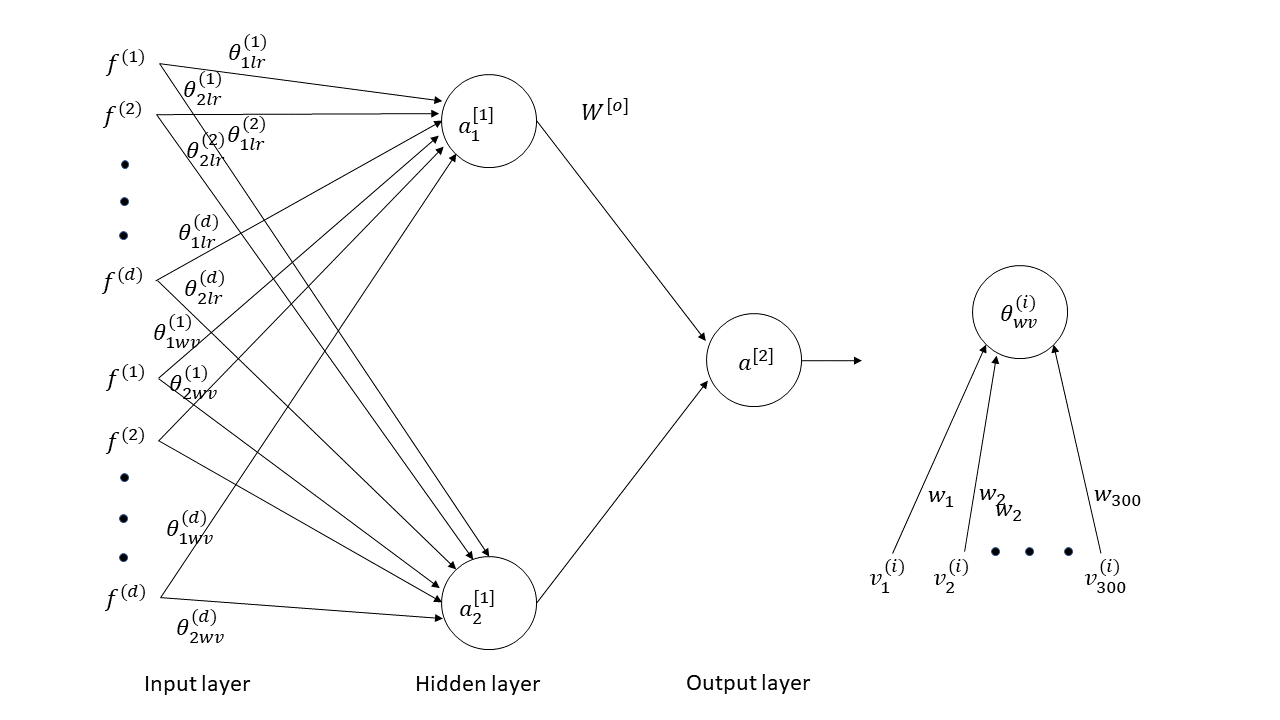
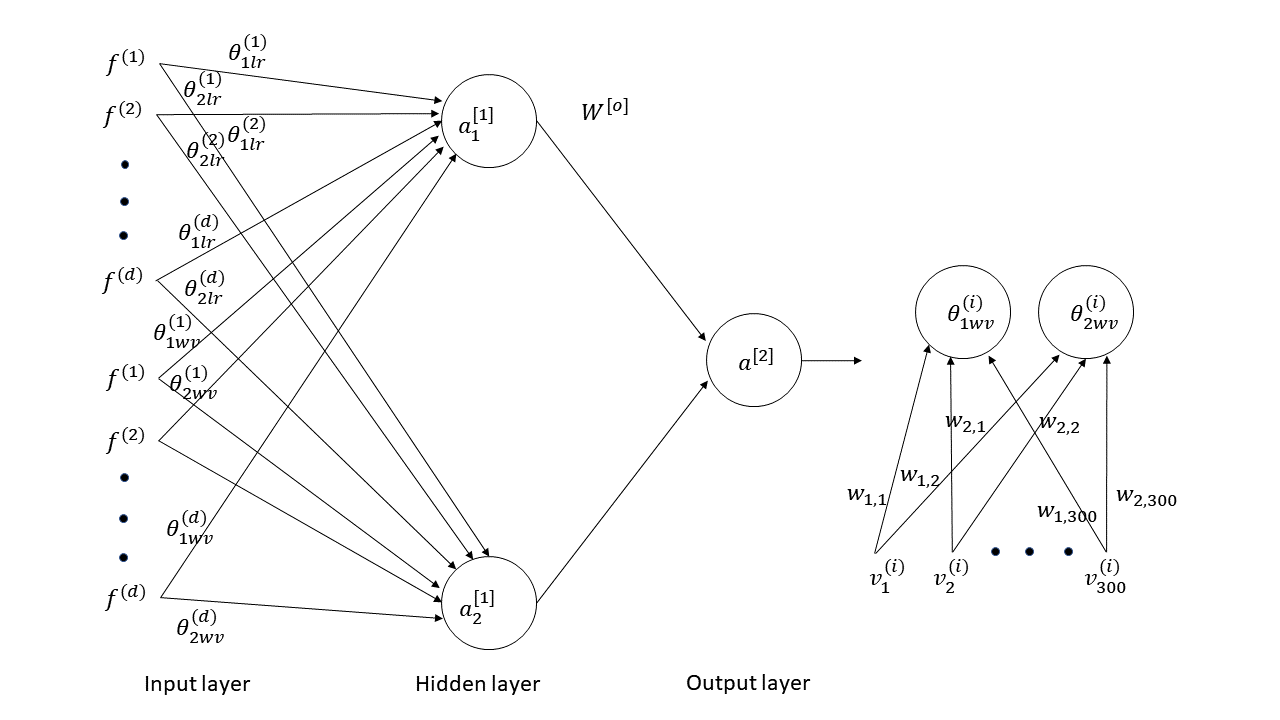
Update on Overleaf.

diff --git a/wordvectors.tex b/wordvectors.tex
@@ -23,9 +23,9 @@ This choice of word-representation is simple, robust and can act as a good basel
 \newpage
 \subsection{History of word-embeddings}
 
-The technique of representing words as vectors has roots in the 1960s with the development of vector space models for information retrieval. Reducing the number of dimensions using singular value decompostitoin led to the introduction of latent semantic analysis in the late 1980s. In 2001, Bengio et al. published a paper to tackle language modeling and it was the initial idea of word-embedding. At that time, they named this process as "learning a distributed representaion for words".
+The technique of representing words as vectors has roots in the 1960s with the development of vector space models for information retrieval. Reducing the number of dimensions using singular value decompostitoin led to the introduction of latent semantic analysis in the late 1980s. In 2001, Bengio et al. \cite{bengio2003neural} published a paper to tackle language modeling and it was the initial idea of word-embedding. At that time, they named this process as "learning a distributed representaion for words".
 
-In 2008, Ronan and Jason introduced a concept of pre-trained model and showed its amazing approach for solving NLP problems. In 2013, a team at Google led by Tomas Mikolov created word2vec, a word-embedding toolkit which can train vector space models faster than the previous approaches. Later on, gensim provided an amazing wrapper so that adopt different pre-trained word-embedding models which include Word2Vec (by Google), GloVe (by Stanford), fastText (by Facebook).
+In 2008, Ronan and Jason \cite{collobert2008unified} introduced a concept of pre-trained model and showed its amazing approach for solving NLP problems. In 2013, a team at Google led by Tomas Mikolov created word2vec \cite{mikolov2013efficient}, a word-embedding toolkit which can train vector space models faster than the previous approaches. Later on, gensim provided an amazing wrapper so that adopt different pre-trained word-embedding models which include Word2Vec (by Google), GloVe \cite{pennington2014glove} (by Stanford), fastText (by Facebook).
 
 \subsection{Word-vector training}
 
@@ -82,7 +82,7 @@ In the previous example of the sentence, "The quick brown fox jumps over the laz
 
 \noindent\textbf{Negative Sampling:}\\
 
-Instead of every training sample tweaking all the weights of the neural network, we can modify only a small percentage of weights, rather than all of them. With negative sampling, we are going to randomly select a small number of negative weights to update along with updating all the positive weights. The negative samples are selected using a unigram distribution, where frequent words are more likely to be selected as negative samples. Thus the probability of picking the word as part of a negative sample to update will depend on the number of times the word appears in the corpus divided by the total number of words in the corpus. This is expressed by the following equation:
+Instead of every training sample tweaking all the weights of the neural network, we can modify only a small percentage of weights, rather than all of them. With negative \cite{goldberg2014word2vec}, we are going to randomly select a small number of negative weights to update along with updating all the positive weights. The negative samples are selected using a unigram distribution, where frequent words are more likely to be selected as negative samples. Thus the probability of picking the word as part of a negative sample to update will depend on the number of times the word appears in the corpus divided by the total number of words in the corpus. This is expressed by the following equation:
 
 \begin{equation}
 P(w_{i}) = \frac{f(w_{i})}{\sum_{j=0}^{n}f(w_{j})}
@@ -125,7 +125,7 @@ In other words, we can subtract one meaning from the word vector for king (i.e. 
 
 The current implementation of word vectors is limited to its unigram natural behavior. It does not embed bigrams like "American Airlines" as its whole. In some cases, a word pair like "Boston Globe" (a newspaper) has a much different meaning than the individual words "Boston" and "Globe". So it makes sense to treat "Boston Globe" as a single term whenever it occurs when its own word vector representation.
 
-However, the addition of phrases to the model will exponentially increase the vocabulary size. The word2vec team have built a tool that counts the number of times each combination of two words appears in the training text, and use it in an equation to determine which word combinations turn into phrases. The equation is designed to make phrases out of words which occur together often relative to the number of individual occurrences. It also favors phrases made of infrequent words in order to avoid making phrases out of common words like "and the" or "this is".
+However, the addition of phrases to the model will exponentially increase the vocabulary size. The word2vec team have built a tool that counts the number of times each combination of two words appears in the training text, and use it in an equation to determine which word combinations turn into phrases \cite{mikolov2013distributed}. The equation is designed to make phrases out of words which occur together often relative to the number of individual occurrences. It also favors phrases made of infrequent words in order to avoid making phrases out of common words like "and the" or "this is".
 
 The same word2vec idea can be extended to sentences and complete documents where instead of learning feature representation for words, you learn it for sentences or documents. The applications of these models could depend on the task at hand. A word2vec model can effectively capture semantic relationship between words and hence it can be used to calculate word similarities or fed as features to various NLP tasks such as sentiment analysis, LSTMs etc. However words can only capture so much, there are times when you need relationships between sentences and documents and not just words. For example, if you are trying to figure out if two documents are duplicates of each other.
 
@@ -156,15 +156,15 @@ Though pre-trained word embeddings have been very influential, they have a major
 
 \noindent \textbf{Embeddings from Language Models (ELMo)}\\
 
-The motivation for ELMo is that word embeddings should incorporate both word-level characteristics as well as contextual semantics. So instead of taking just the final layer of deep bi-LSTM language model as the word representation, ELMo embeddings are a function of all internal layers of bi-LSTM. The intutition is that higher level states of the bi-LSTM capture context, while lower level captures syntax. Thus, instead of using a fixed embedding for each word, ELMo looks at the entire sentence before assigning each word an embedding thus generating different embeddings for each of its occurence.
+The motivation for ELMo \cite{peters2018deep} is that word embeddings should incorporate both word-level characteristics as well as contextual semantics. So instead of taking just the final layer of deep bi-LSTM language model as the word representation, ELMo embeddings are a function of all internal layers of bi-LSTM. The intutition is that higher level states of the bi-LSTM capture context, while lower level captures syntax. Thus, instead of using a fixed embedding for each word, ELMo looks at the entire sentence before assigning each word an embedding thus generating different embeddings for each of its occurence.
 
 \newpage
 \noindent \textbf{Open AI GPT (Generative Pre-training Transformer)}\\
 
-Open AI GPT is similar to ELMo, with a few differences. Firstly while ELMo uses Bi-LSTMs, GPT is a multi-layer encoder-decoder model with attention mechanism. Secondly while ELMo feeds embeddings into models for customized tasks, GPT fine tunes the same base model for all tasks.
+Open AI GPT \cite{radford2018improving} is similar to ELMo, with a few differences. Firstly while ELMo uses Bi-LSTMs, GPT is a multi-layer encoder-decoder model with attention mechanism. Secondly while ELMo feeds embeddings into models for customized tasks, GPT fine tunes the same base model for all tasks.
 
 However, one drawback of the GPT is its uni-directional nature - the model is only trained to predict the future left-to-right context.\\
 
 \noindent \textbf{Bidirectional Encoder Representations from Transformers (BERT)}\\
 
-BERT is a direct descendent to GPT — train a large language model on free text and then fine-tune on specific tasks without customized network architectures. Compared to GPT, the largest difference and improvement of BERT is to make training bi-directional. The model learns to predict both context on the left and right. The model architecture of BERT is a multi-layer bi-directional Transformer encoder.
+BERT \cite{devlin2018bert} is a direct descendent to GPT — train a large language model on free text and then fine-tune on specific tasks without customized network architectures. Compared to GPT, the largest difference and improvement of BERT is to make training bi-directional. The model learns to predict both context on the left and right. The model architecture of BERT is a multi-layer bi-directional Transformer encoder.

diff --git a/neuralnets.tex b/neuralnets.tex
@@ -116,9 +116,9 @@ Computing the weights through forward propagation and updating the weights throu
 
 \subsection{Convolutional Neural Networks}
 
-Convolutional Neural Network models are one of the most exciting developments in machine learning in recent years. It has mainly been used for image classification and computer vision by being able to extract features from images and use them in neural networks.
+Convolutional Neural Network models \cite{krizhevsky2012imagenet} are one of the most exciting developments in machine learning in recent years. It has mainly been used for image classification \cite{lawrence1997face} and computer vision \cite{karpathy2014large} by being able to extract features from images and use them in neural networks.
 
-A CNN has multiple layers called convolutional layers. In case of images, these convolutional layers are able to detect edges, corners and other textures. This same process can be applied to one-dimensional sequence of data. When we work with sequential data, like text, we work with one dimensional convolutions. The model extracts features from sequence data and maps the internal features of the sequence.
+A CNN has multiple layers called convolutional layers. In case of images, these convolutional layers are able to detect edges, corners and other textures. This same process can be applied to one-dimensional sequence of data. When we work with sequential data, like text \cite{kim2014convolutional} \cite{kalchbrenner2014convolutional}, we work with one dimensional convolutions \cite{hughes2017medical}. The model extracts features from sequence data and maps the internal features of the sequence.
 
 \subsubsection{Pre-processing and Model training}
 
@@ -126,13 +126,13 @@ A CNN has multiple layers called convolutional layers. In case of images, these 
 
 \item{CNNs require input to have a static size and the document lengths can vary greatly. To counter this, we can apply padding that simply pads the sequence of words with zeros. Additionally we should also limit the number of words in each document by using a fixed size.}
 
-\item{We applied a 1d Convolutional layer with 128 filters with a sliding window size of 5. A 1D CNN is very effective for deriving features from a fixed-length segment of the overall dataset, where the feature location is not so important.}
+\item{We applied a 1d Convolutional layer with 128 filters with a sliding window size of 5. A 1D CNN \cite{kiranyaz2015real} is very effective for deriving features from a fixed-length segment of the overall dataset, where the feature location is not so important.}
 
 \item{We also applied pooling to the incoming feature vector. A pooling layer (MaxPool, AveragePool) acts as a way to downsample the input vector. For max pooling, we take the maximum value of all features in the pool for each feature dimension. For average pooling, one would take the average. But in general max pooing is more commonly used as it highlights large values. Global max/average pooling takes the max/average of all features without having to define the pool size. For our experiment, we will be using GlobalMaxPooling.}
 
 \item{The output of the pooling layer is then passed through a fully connected layer which is then passed through a sigmoid/softmax layer depending on whether it is a multi-label/multi-class classification problem.}
 
-\item{We also added dropout layers in our neural network architecture. Dropout limits overfitting by randomly ignoring certain set of neurons by not considering them during a particular forward or backward pass. This helps to reduce overfitting similar to regularization in machine learning.}
+\item{We also added dropout layers in our neural network architecture. Dropout \cite{srivastava2014dropout} limits overfitting by randomly ignoring certain set of neurons by not considering them during a particular forward or backward pass. This helps to reduce overfitting similar to regularization in machine learning.}
 
 \end{itemize}
 
@@ -149,6 +149,7 @@ A CNN has multiple layers called convolutional layers. In case of images, these 
 
 Below is a table showing how a neural network model with one hidden layer performed with and without using features generated by word-vectors.
 
+\iffalse
 \begin{table}[htbp]
 \centering
 \begin{tabular}{llllll}
@@ -157,16 +158,28 @@ Below is a table showing how a neural network model with one hidden layer perfor
 \end{tabular}
 \caption{\label{tab:widgets}Set-Accuracy Results}
 \end{table}
-
+\fi
 
 \begin{table}[htbp]
 \centering
-\begin{tabular}{llllll}
-\multicolumn{1}{l|}{Datasets}    & \multicolumn{1}{c|}{\begin{tabular}[c]{@{}c@{}}2 layer NN\\ Instance F1\end{tabular}} & \multicolumn{1}{c|}{\begin{tabular}[c]{@{}c@{}}2 layer NN with wv\\ Instance F1\end{tabular}} &  &  &  \\ \cline{1-3}
-\multicolumn{1}{l|}{IMDb}        & \multicolumn{1}{c|}{56.14}                                                            & \multicolumn{1}{c|}{60.21}                                                                    &  &  &  \\
-\multicolumn{1}{l|}{20NewsGroup} & \multicolumn{1}{c|}{55.64}                                                                 & \multicolumn{1}{c|}{58.97}                                                                    &  &  &  \\
+\begin{tabular}{l|c|c}
+IMDb & \multicolumn{1}{l|}{Set Accuracy} & \multicolumn{1}{l}{Instance F1} \\ \hline
+2 layer NN & 18.21 & 56.14 \\
+2 layer NN with wv & 19.63 & 60.21 \\
+CNN &  & 
 \end{tabular}
-\caption{\label{tab:widgets}Instance F1 Results}
+\caption{\label{tab:widgets}Set-Accuracy and Instance-F1 Results for IMDb dataset.}
+\end{table}
+
+\begin{table}[htbp]
+\centering
+\begin{tabular}{l|c}
+20 Newsgroup & F1 \\ \hline
+2 layer NN & 56.72 \\
+2 layer NN with wv & 58.97 \\
+CNN & 57.59
+\end{tabular}
+\caption{\label{tab:widgets}F1 Results for 20 Newsgroup dataset.}
 \end{table}
 
 We can see that for both the datasets, the neural network model using features generated by word-vectors is the better performing model. In fact this model even outperforms all other previously tested models.

diff --git a/methodLR_wvreg.tex b/methodLR_wvreg.tex
@@ -34,6 +34,22 @@ Once we obtain the mean vector for all the documents, we train a vanilla logisti
 \newpage
 \subsection{Initial word-vector model}
 
+For our initial word-vector model, we built a network where the coefficients are only a function of its word representation ($v^{(i)}$), without the logistic regression weights, i.e.,
+
+\begin{equation}\label{lb1}
+\theta^{(i)} = \theta_{wv}^{(i)}
+\end{equation}
+
+These weights as mentioned in Chapter 3, will be learnt through the word representation of the features using a linear regressor, which will then be passed through a sigmoid/softmax function for classfication i.e.,
+
+\begin{equation}
+\theta_{wv}^{(i)} = w_{1}v_{1}^{(i)} + w_{2}v_{2}^{(i)} + ... + w_{d}v_{d}^{(i)} = \sum_{d=1}^{D} w_{d}^{(i)}v_{d}^{(i)}
+\end{equation}
+
+where, $w = (w_{1}, w_{2}, ..., w_{d})$ are the parameters of the regression function. 
+
+$\quad\qquad\  v= (v_{1}, v_{2}, ..., v_{d})$ are d-dimensional word-representations of word $i$\\
+
 \begin{figure}[htbp]
 \centering
 \includegraphics[width=16cm, height=8cm]{images/init-wv.png}\\
@@ -84,8 +100,6 @@ where $\lambda_{1}, \lambda_{2}, \lambda_{3}$ and l1, l2 and word-vector regular
 
 \end{itemize}
 
-\newpage
-
 \begin{figure}[htbp]
 \centering
 \includegraphics[width=16cm, height=10cm]{images/model3.png}\\
@@ -94,6 +108,7 @@ where $\lambda_{1}, \lambda_{2}, \lambda_{3}$ and l1, l2 and word-vector regular
 \label{fig:foo}
 \end{figure}
 
+\newpage
 \subsubsection{Why would it work?}
 
 Let's say there are two words "Russia" and "Soviet" having similar word-vectors due to their reference in similar context. However the word "Russia" is present in the text more often than "Soviet" and has higher feature weight. Due to their high similarity and larger difference in weights, the word-vector model will add a higher penalty to the cost function until their corresponding weights are close to each other.
@@ -116,6 +131,7 @@ The major challenge faced while running this model is the amount of time it took
 
 So for a medium sized dataset with 10,000 features, 100,000 records and a decent batch size of 10\% of training data, one would have to compute these matrices and get their dot product at least 10 times. And that would train the model for just a single epoch. For training a good enough model with a decent learning rate, one would need to train the model for at least 400-500 epochs. All of this only if we are training a binary classifier. If we are training a multi-class or multi-label classifier with $\sim$2000 different classes, then it would take an exponential amount of time. This puts a huge constraint on the amount of time and resources needed to train the model. For training an even larger dataset with $\sim$100,000 features, it would be even more difficult as training a single epoch itself might take a few hours.
 
+\newpage
 \subsubsection{Workarounds}
 
 In order to remediate this, we limit the features for which we want to increase the weights. Since our objective through this project was to make rare features have higher weights, we can pick the top k rarest features and look at their similarities with the rest of the features. This would reduce the similarity matrix size from $(n$ x $n)$ to $(n$ x $k)$. We can choose the top rare features based on their IDF (Inverse Document Frequency) score.
